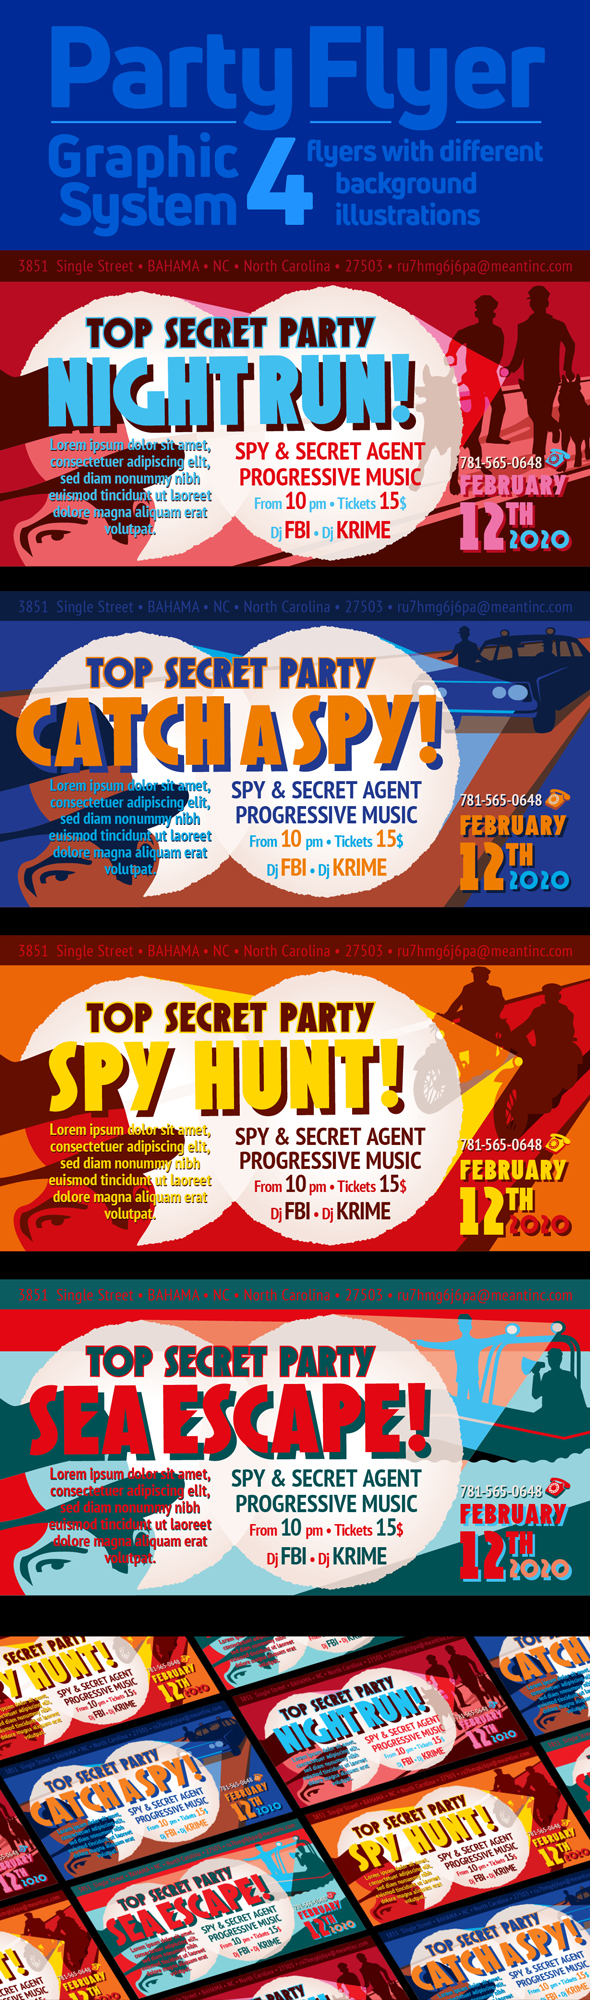
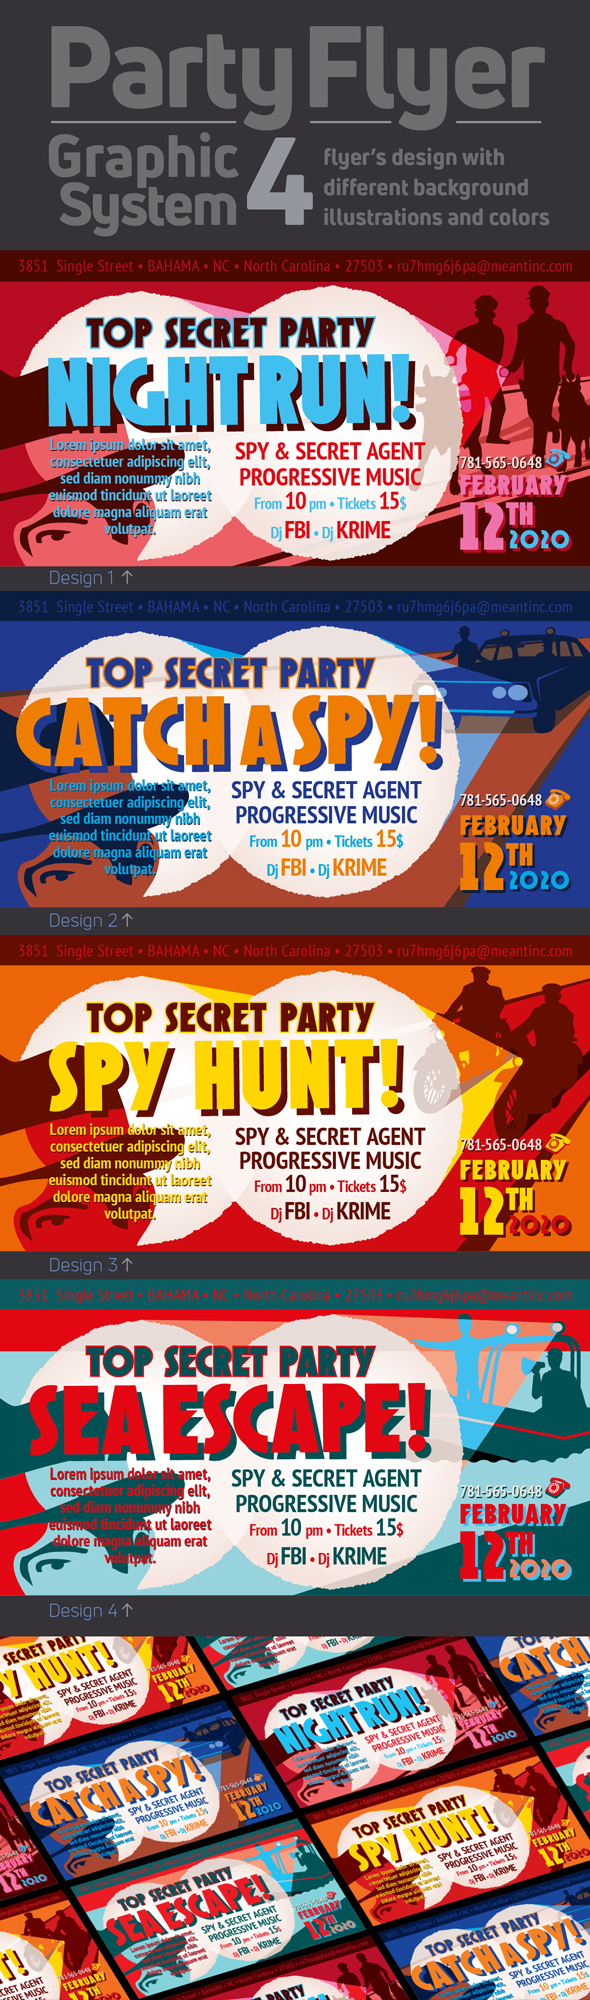
yes

diff --git a/spy_html/index.html b/spy_html/index.html
@@ -11,61 +11,38 @@
 <h1 style="color:#054F6D">Event Flyers</h1>
 
 <div>
-<strong>Content:</strong>
+<p><h3><strong>Party Flyer Graphic System</strong></h3></p>
+<p>Four flyers design with different background illustrations and colors to use in the same event or in four different events</p>
+<h3><strong>Content:</strong></h3>
 
 <ul  style="color:#bababa; ">
 				<li>Four different models</li>
-				<li>Size 5.9×3.14 In – 15x8 cm  + Bleed area</li>
+				<li>Size 6×3.2 In – 15,25x8,1 cm  + Bleed area</li>
 				<li>CMYK / 300 dpi</li>
 				<li>100% Vector</li>
                 <li>Free Fonts Used</li>
                 <li>Well arranged layers</li></ul>
 <p><img src="https://raw.githubusercontent.com/akidaniel/almacen/gh-pages/spy_html/images/layers.jpg" alt="layers" ></a>
 </p>
-<ul  style="color:#bababa; "><li>100% editable</li></ul>
+<ul  style="color:#bababa; "><li>Fully editable</li></ul>
 <p><img src="https://raw.githubusercontent.com/akidaniel/almacen/gh-pages/spy_html/images/text.gif" alt="layers" ></a>
 </p>
-<ul  style="color:#bababa; "><li><strong>Limited Color Palette</strong> allowing easy color change by clicking twice the swatch from the Swatches Panel to edit and modify the inks sliders</li></ul>
+<ul  style="color:#bababa; "><li><strong>Limited Color Palette</strong> in each design allowing easy global color change in Illustrator by clicking twice the swatch from the Swatches Panel to edit and modify the inks sliders</li></ul>
 <p><img src="https://raw.githubusercontent.com/akidaniel/almacen/gh-pages/spy_html/images/swatches.gif" alt="layers" ></a>
 </p>
-				
 
-
-
-
-<strong>Content:</strong>
+<h3><strong>Download Includes:</strong></h3>
 <ul  style="color:#bababa; margin-left:30px;">
-				<li>Four Adobe Illustrator file (.ai)</li>
-                <ul><li>car.ai</li><li>32 female</li></ul>
-				<li>3 Group of People Templates (.ait) to create a <u>Group of vector people all together in a shape</u> in three versions:</li><ul>
-				<li>Plain People</li><li>People with Shadow down</li><li>People with Shadow up</li></ul>
-				<li>Each model in a separated file format:</li><ul><li>SVG</li><li>PNG transparent backgrount</li><li>JPEG Maximum Quality</li></ul>
-				
+				<li>Four Adobe Illustrator files (.ai)</li>
+                <li>Four Adobe Photoshop files (.psd)</li>
+                <li>Four EPS files (.eps)</li>
+                <li>PDF help instructions</li>
 </ul>
-</div>
+       
+<h3><strong>Fonts:</strong></h3>
+<ul style="color:#bababa; margin-left:30px;"><li><a href="https://www.fontsquirrel.com/fonts/sf-speakeasy">SF Speakeasy</a></li>
+<li><a href="https://fonts.google.com/specimen/PT+Sans+Narrow">PT Sans Narrow</a></li></ul>
 
-<div>
-<strong>Download Includes:</strong>
-<ul  style="color:#bababa; margin-left:30px;">
-				<li>PEOPLE.ai</li>
-				<li>PEOPLE_GROUP.ait</li>
-				<li>PEOPLE_GROUP_SHADOW_DOWN.ait</li>
-                <li>PEOPLE_GROUP_SHADOW_UP.ait</li>
-				<li>SVG 64 images</li>
-				<li>PNG 64 background transparent images</li>
-				<li>JPEG 64 maximum quality images</li>
-</ul>
-</div>
-    
-
-
-<div>        
-<strong>Video link:</strong>
-
-<p><a href="https://youtu.be/OOqHPD7_wks"><img src="https://raw.githubusercontent.com/akidaniel/almacen/gh-pages/people_html/images/peoplevideo.jpg" alt="video" ></a>
-</p>
-
-<p>The shape used in this preview is a <a href="https://pngtree.com/free-icons/cat">free cat icon</a> from pngtree.com, not included.</p>
 </div>
 
 
